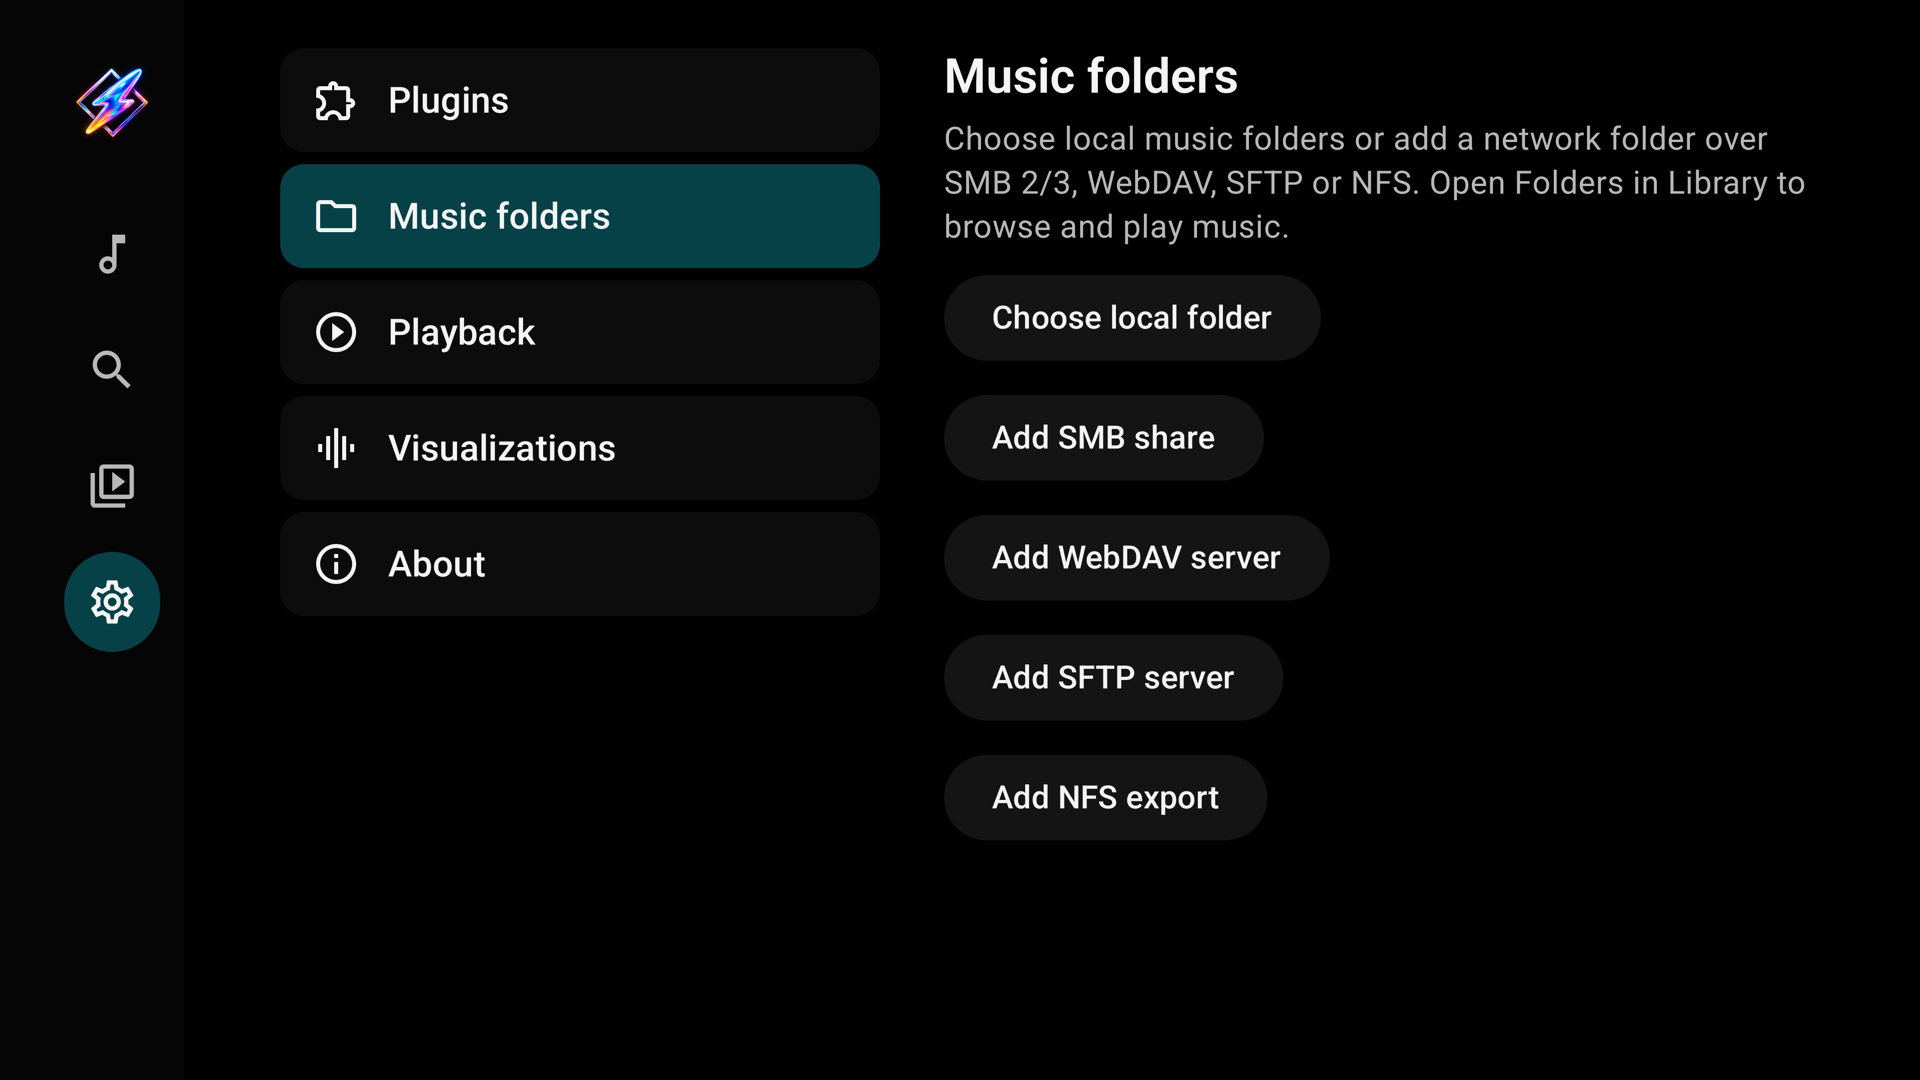
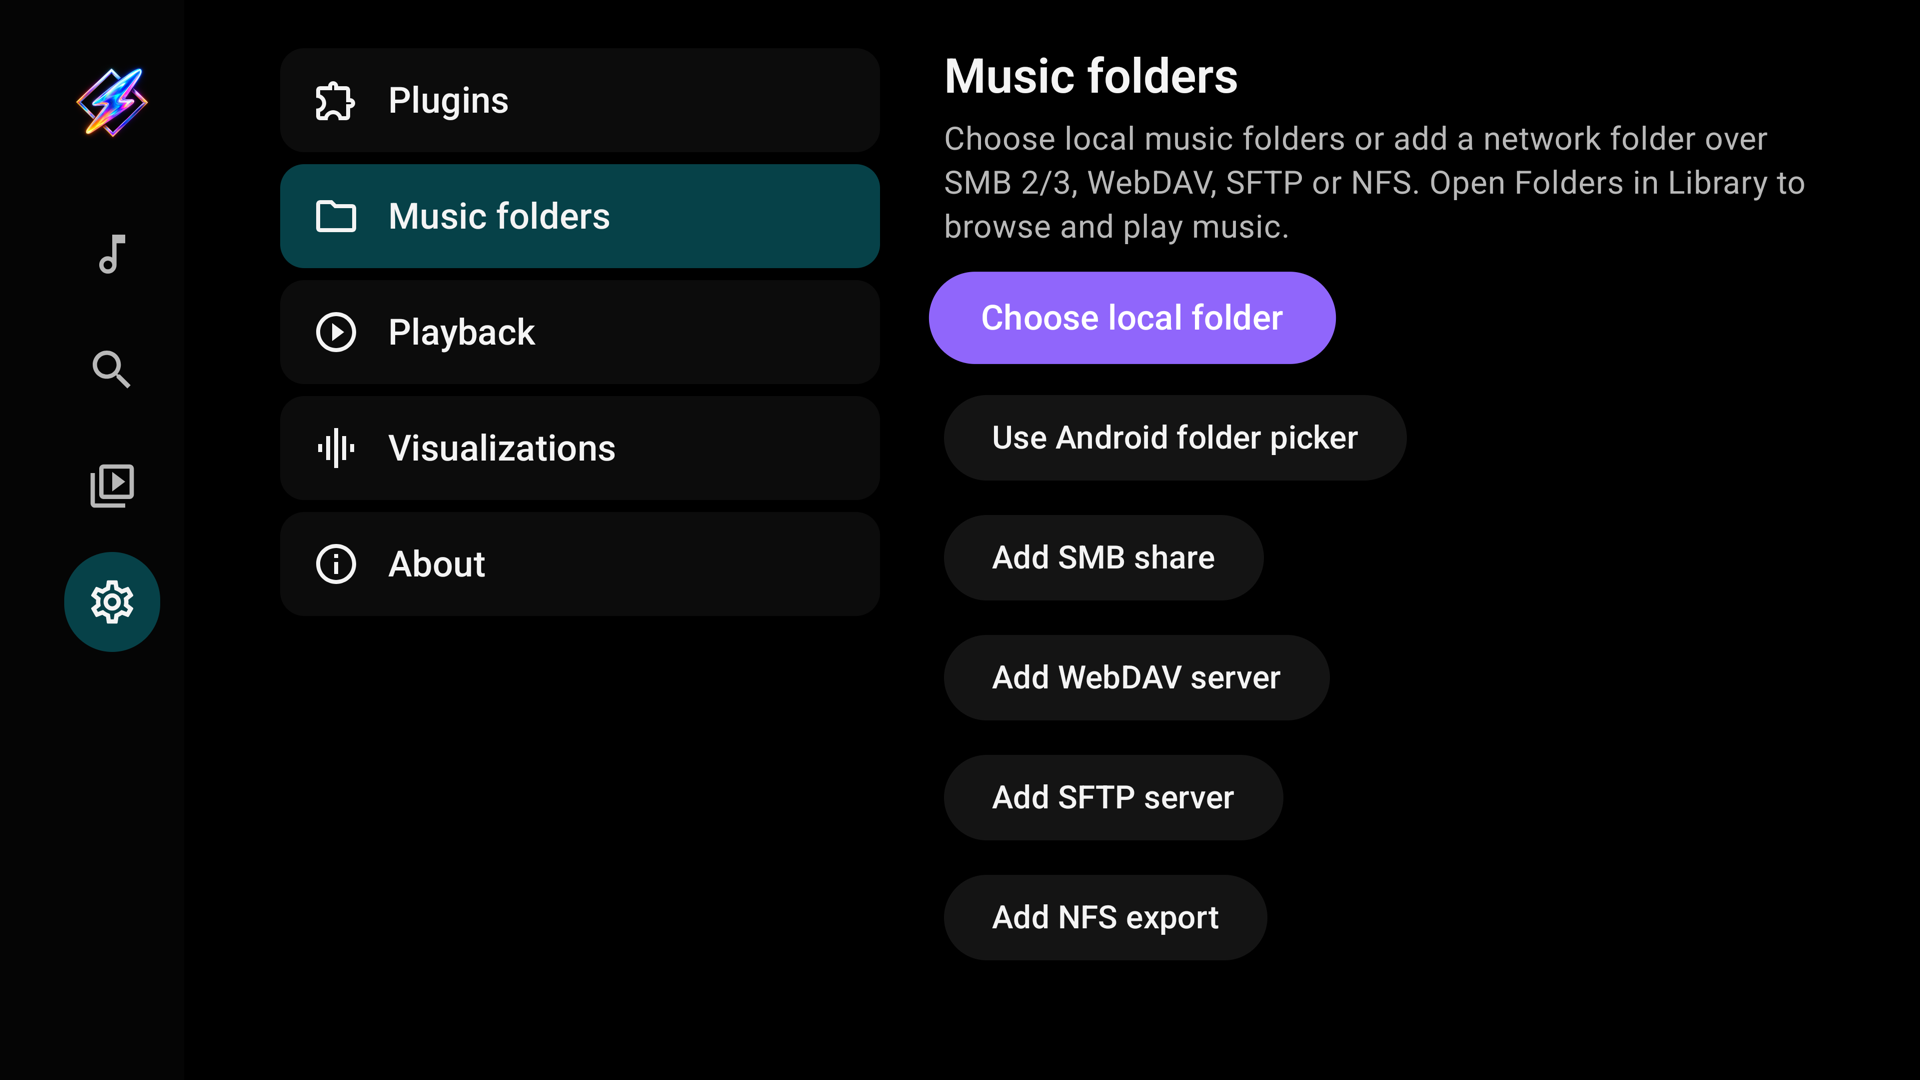
fix(folders): skip unreadable subfolders and verify TV flows
Preserve readable music when descendants cannot be accessed. Exercise contextual denial, D-pad save, metadata and focus return with a debug-only Hilt host. Update guide captures from the final TV UI.

diff --git a/app/src/androidTest/java/io/github/aedev/flow/ui/tv/screens/folders/TvLocalFolderPickerDeviceTest.kt b/app/src/androidTest/java/io/github/aedev/flow/ui/tv/screens/folders/TvLocalFolderPickerDeviceTest.kt
@@ -14,7 +14,7 @@ import androidx.compose.ui.test.assertIsFocused
 import androidx.compose.ui.test.hasClickAction
 import androidx.compose.ui.test.hasScrollAction
 import androidx.compose.ui.test.hasText
-import androidx.compose.ui.test.junit4.v2.createComposeRule
+import androidx.compose.ui.test.junit4.v2.createAndroidComposeRule
 import androidx.compose.ui.test.onNodeWithText
 import androidx.compose.ui.test.performKeyInput
 import androidx.compose.ui.test.performScrollToNode
@@ -28,6 +28,7 @@ import androidx.test.uiautomator.UiDevice
 import androidx.test.uiautomator.Until
 import dagger.hilt.android.testing.HiltAndroidRule
 import dagger.hilt.android.testing.HiltAndroidTest
+import io.github.aedev.flow.FolderPickerTestActivity
 import io.github.aedev.flow.R
 import io.github.aedev.flow.data.folders.LocalStorageFolders
 import io.github.aedev.flow.data.folders.MusicFolderMetadata
@@ -56,7 +57,7 @@ class TvLocalFolderPickerDeviceTest {
     val hilt = HiltAndroidRule(this)
 
     @get:Rule(order = 1)
-    val compose = createComposeRule()
+    val compose = createAndroidComposeRule<FolderPickerTestActivity>()
 
     @Inject internal lateinit var storage: LocalStorageFolders
 
@@ -100,19 +101,20 @@ class TvLocalFolderPickerDeviceTest {
             device.executeShellCommand("appops set --uid ${context.packageName} MANAGE_EXTERNAL_STORAGE allow")
         } else {
             device.executeShellCommand("pm grant ${context.packageName} android.permission.READ_EXTERNAL_STORAGE")
-            if (Build.VERSION.SDK_INT <=
-                28
-            ) {
-                device.executeShellCommand("pm grant ${context.packageName} android.permission.WRITE_EXTERNAL_STORAGE")
-            }
         }
         assumeTrue(storage.hasAccess())
         val fixture = File(Environment.getExternalStorageDirectory(), "MilkbeatPicker-${UUID.randomUUID()}")
-        assertTrue(fixture.mkdirs())
-        File(fixture, "Albums").mkdir()
-        instrumentation.context.assets.open("folders/tagged.flac").use { input ->
-            File(fixture, "track.flac").outputStream().use { output -> input.copyTo(output) }
-        }
+        val audio =
+            instrumentation.context.assets
+                .open("folders/tagged.flac")
+                .use { it.readBytes() }
+        val fixturePath = fixture.absolutePath
+        val sample = File(requireNotNull(context.externalCacheDir), "picker-track-${UUID.randomUUID()}.flac")
+        sample.writeBytes(audio)
+        device.executeShellCommand("mkdir -p $fixturePath/Albums")
+        device.executeShellCommand("cp ${sample.absolutePath} $fixturePath/track.flac")
+        sample.delete()
+        assertTrue(fixture.isDirectory)
         val vm = MusicFoldersViewModel(repository, metadata, storage)
         val store = show(vm)
         try {
@@ -141,10 +143,12 @@ class TvLocalFolderPickerDeviceTest {
             assertTrue(tracks.single().name == "track.flac")
             val tagged = runBlocking { metadata.enrich(tracks.single().track(saved)) }
             assertTrue(tagged.title != "track")
-            runBlocking { repository.remove(saved) }
         } finally {
             compose.runOnIdle { store.clear() }
-            fixture.deleteRecursively()
+            runBlocking {
+                for (source in repository.folders.first().filter { it.name == fixture.name }) repository.remove(source)
+            }
+            device.executeShellCommand("rm -r $fixturePath")
         }
     }
 

diff --git a/app/src/test/java/io/github/aedev/flow/data/folders/DocumentMusicFoldersFileTest.kt b/app/src/test/java/io/github/aedev/flow/data/folders/DocumentMusicFoldersFileTest.kt
@@ -66,4 +66,17 @@ class DocumentMusicFoldersFileTest {
             assertThat(source.isValid()).isFalse()
         }
     }
+
+    @Test fun unreadableDescendantDoesNotHideReadableMusic() {
+        val root = temporary.newFolder("Music")
+        val hidden = File(root, "Unavailable").apply { mkdir() }
+        File(root, "Song.flac").writeText("audio")
+        val source = documents.add(Uri.fromFile(root))
+        hidden.setReadable(false, false)
+        try {
+            assertThat(documents.list(source, "").map { it.name }).containsExactly("Song.flac")
+        } finally {
+            hidden.setReadable(true, true)
+        }
+    }
 }

diff --git a/app/src/main/java/io/github/aedev/flow/data/folders/FileMusicFolders.kt b/app/src/main/java/io/github/aedev/flow/data/folders/FileMusicFolders.kt
@@ -38,6 +38,7 @@ internal object FileMusicFolders {
         val children = directory.listFiles() ?: throw FileNotFoundException("Folder no longer available")
         return children.mapNotNull { child ->
             if (Thread.currentThread().isInterrupted) throw InterruptedException()
+            if (!child.canRead()) return@mapNotNull null
             val canonical = child.canonicalFile
             if (!canonical.toPath().startsWith(root.toPath())) return@mapNotNull null
             val directoryChild = child.isDirectory

diff --git a/app/src/main/java/io/github/aedev/flow/ui/tv/screens/folders/TvLocalFolderPicker.kt b/app/src/main/java/io/github/aedev/flow/ui/tv/screens/folders/TvLocalFolderPicker.kt
@@ -46,7 +46,7 @@ internal fun TvLocalFolderPicker(
             )
         }
         Row(horizontalArrangement = Arrangement.spacedBy(12.dp)) {
-            TvButton(stringResource(R.string.music_folders_back), viewModel::localPickerBack, enabled = !state.saving)
+            TvButton(stringResource(R.string.music_folders_editor_back), viewModel::localPickerBack, enabled = !state.saving)
             TvButton(
                 stringResource(R.string.music_folders_refresh),
                 viewModel::refreshLocalPicker,

diff --git a/app/src/debug/java/io/github/aedev/flow/FolderPickerTestActivity.kt b/app/src/debug/java/io/github/aedev/flow/FolderPickerTestActivity.kt
@@ -1,0 +1,7 @@
+package io.github.aedev.flow
+
+import androidx.activity.ComponentActivity
+import dagger.hilt.android.AndroidEntryPoint
+
+@AndroidEntryPoint
+class FolderPickerTestActivity : ComponentActivity()

diff --git a/docs/user-guide/folders.md b/docs/user-guide/folders.md
@@ -6,7 +6,7 @@
 
 1. Open Settings → Music folders.
 2. Select **Choose local folder**.
-3. If needed, allow storage access: Android 10 and older show a read-storage permission prompt; Android 11 and newer open the app's **All files access** setting. Return to Milkbeat after enabling it.
+3. If needed, allow storage access: Android 10 and older show a read-storage permission prompt; Android 11 and newer open Android's **All files access** settings. Select Milkbeat if Android shows a list of apps, then enable access and return to Milkbeat.
 4. Choose the TV's storage or a mounted USB/SD drive. Use the remote to open folders, then select **Choose this folder**.
 5. Open Library → Folders and select the saved source.
 
@@ -17,6 +17,10 @@ If permission is denied, network folders and the rest of Milkbeat remain usable.
 A USB drive must be mounted by Android. Select **Refresh** after connecting a drive. Moving or disconnecting storage can make a saved source unavailable; reconnect it and refresh. Device firmware controls which mounts are accessible. Symbolic links that leave the selected folder are not followed.
 
 ![Music folders settings with local folder, SMB, WebDAV, SFTP and NFS actions](images/settings-folders.png)
+
+![Milkbeat's native storage-device picker](images/local-folder-drives.png)
+
+![The D-pad folder browser with Back, Refresh and Choose this folder](images/local-folder-selection.png)
 
 ## Add an SMB share
 
